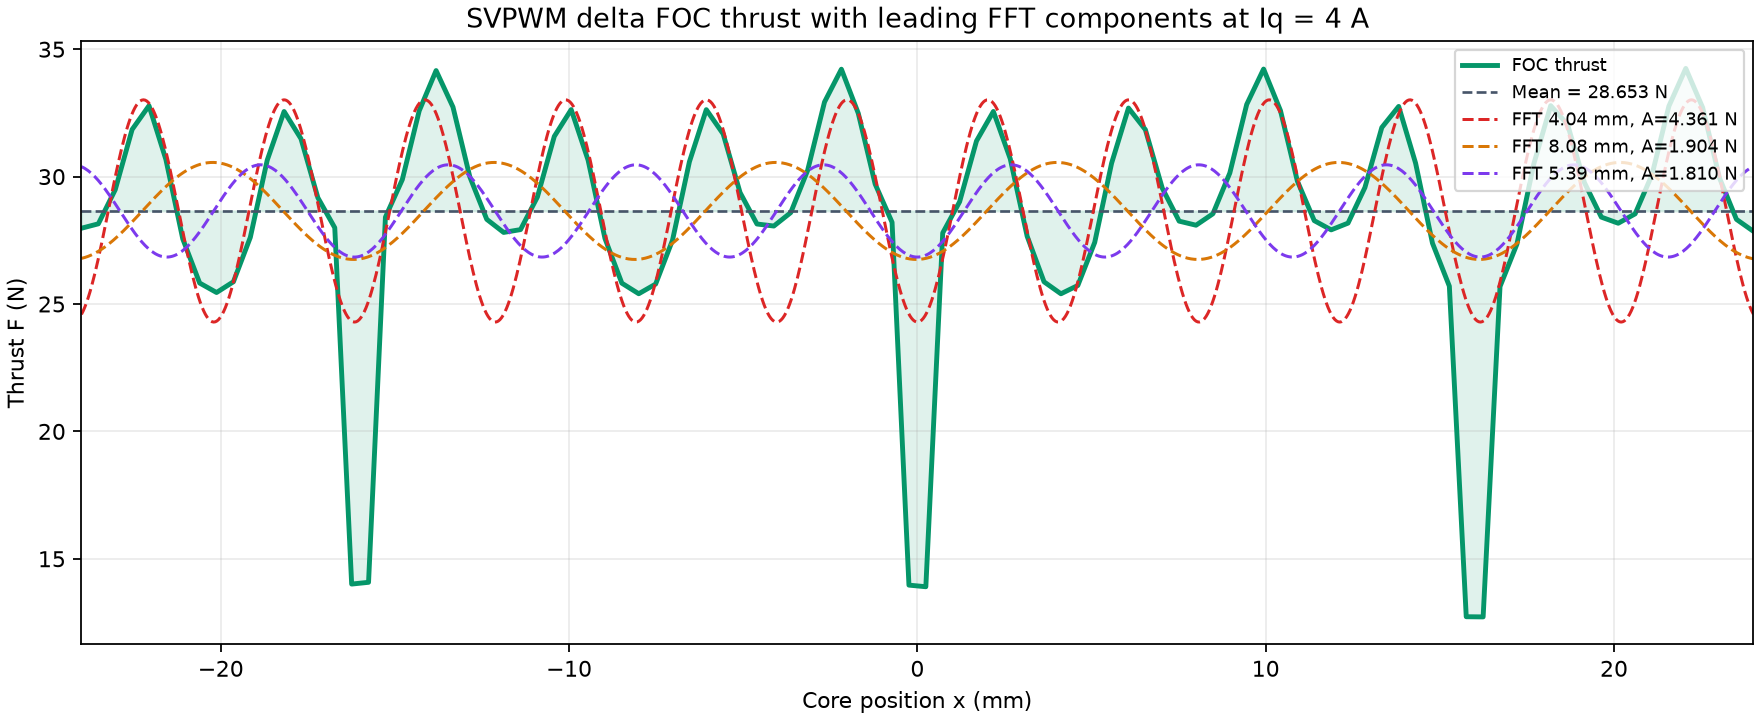
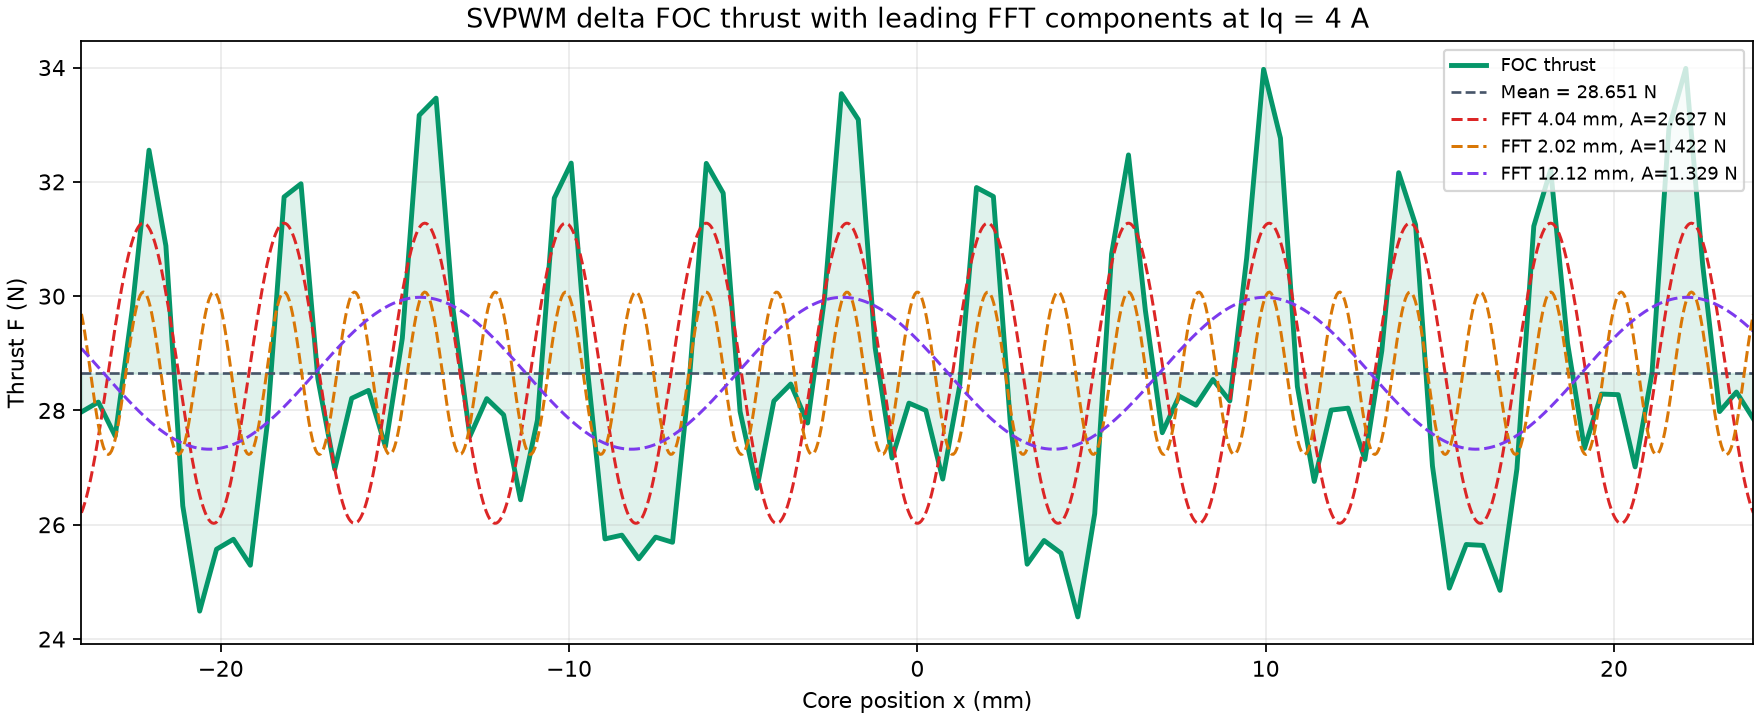
fix: smooth moving magnet source boundaries

Changed region(s): [[0.0, 0.0611, 1.0, 0.8556], [0.75, 0.7028, 0.7812, 0.7333]]

diff --git a/halbach_field_n52.html b/halbach_field_n52.html
@@ -49,7 +49,7 @@
     <div class="note"><span class="key">斜极取舍</span>：14.04° 的磁场基波系数约 0.955，适合推力优先；26.565° 的系数约 0.827，适合齿槽力优先。实际残余力由 B-H 曲线、端部磁通、加工与装配误差决定。</div>
     <div class="note">色图由二维磁矢势方程求解：DXF 闭合轮廓在网格内赋予 35W300 的线性 μr≈4000，气隙为 1 mm，磁铁厚度为 3 mm。铁芯绕其中心旋转 180°，齿顶位于磁铁顶面上方 1 mm。求解域随五组磁铁阵列扩展，四周采用远离模型的固定磁矢势边界；铁芯位于画面中心，左右侧磁铁单元数相同，所有磁铁块均绘制轮廓。</div>
     <div class="note">每种磁铁排布均提供 200 帧动画，展示铁芯按 -24 mm、+24 mm、-24 mm 的顺序往复运动。曲线使用 100 个单程位置点计算。白色箭头表示计算得到的齿槽力方向，箭头长度随力值绝对值变化，箭头上方显示当前位置与瞬时齿槽力。动画下方曲线给出齿槽力 F 随位置 x 的变化。</div>
-    <div class="note"><span class="key">SVPWM Δ 接 FOC 推力模型</span>：三齿三相集中绕组，每相 266 匝、0.4 mm 线径、有效叠厚 16 mm。Iq=4 A 定义为 Δ 每个绕组支路的基波 q 轴峰值电流，对应线电流峰值约 6.93 A。SVPWM 注入的是零序电压以扩展调制范围；支路电流采用平衡基波，避免将三次谐波环流计入有效推力。推力由各齿气隙磁链的位置导数与瞬时相电流相乘计算，未叠加齿槽力。</div>
+    <div class="note"><span class="key">SVPWM Δ 接 FOC 推力模型</span>：三齿三相集中绕组，每相 266 匝、0.4 mm 线径、有效叠厚 16 mm。Iq=4 A 定义为 Δ 每个绕组支路的基波 q 轴峰值电流，对应线电流峰值约 6.93 A。SVPWM 注入的是零序电压以扩展调制范围；支路电流采用平衡基波，避免将三次谐波环流计入有效推力。磁铁边界在每个 0.5 mm 网格单元内使用 8 点体积分数平均，避免边界跨单元跳变被磁链微分放大。推力由各齿气隙磁链的位置导数与瞬时相电流相乘计算，未叠加齿槽力。</div>
   </div>
 </main>
 <script type="application/json">
@@ -196,7 +196,7 @@ const forceCurve = document.querySelector('#forceCurve');
   const thrustCurve = document.querySelector('#thrustCurve');
 const mapLabel = document.querySelector('#mapLabel');
 const motionStatus = document.querySelector('#motionStatus');
-const animationRevision = 'roundtrip-24-v1-svpwm-delta-v1';
+const animationRevision = 'roundtrip-24-v1-svpwm-delta-subcell-v1';
 for (const button of document.querySelectorAll('.mapButton')) {
   button.onclick = () => {
     const map = fieldMaps[button.dataset.map];

diff --git a/cogging_fdm.py b/cogging_fdm.py
@@ -16,6 +16,7 @@ TOOTH = 5.0
 PERIOD = 48.0
 GAP = 1.0
 H = 0.5
+MAGNET_SUBCELL_SAMPLES = 8
 COIL_TURNS = 266
 ACTIVE_STACK_M = 16e-3
 IQ_PEAK_A = 4.0
@@ -136,7 +137,10 @@ def magnet_br(position, skew_offset, array):
     br_y = np.zeros((Z_CELLS, Y_CELLS))
     br_z = np.zeros((Z_CELLS, Y_CELLS))
     in_thickness = (Z >= 0.0) & (Z < 3.0)
-    phase = Y - position - skew_offset
+    # Average magnetization over each finite-volume cell. A binary assignment at
+    # the cell centre makes a moving magnet edge jump by one full 0.5 mm column.
+    subcell_y = Y[:, None] + H * (np.arange(MAGNET_SUBCELL_SAMPLES) + 0.5) / MAGNET_SUBCELL_SAMPLES - H / 2
+    phase = subcell_y - position - skew_offset
     if not SINGLE_CORE:
         phase = np.mod(phase, 24.0)
         active_unit = np.ones_like(phase, dtype=bool)
@@ -147,12 +151,12 @@ def magnet_br(position, skew_offset, array):
     if array in HALBACH_WIDTHS and not NO_SIDE:
         # One 24 mm pole pair: +Z, -Y, -Z, +Y. The normal/tangential widths sum to 12 mm.
         main_width = HALBACH_WIDTHS[array]
-        br_z_line = np.where(active_unit & (phase < main_width), BR, np.where(active_unit & (phase >= 12.0) & (phase < 12.0 + main_width), -BR, 0.0))
-        br_y_line = np.where(active_unit & (phase >= main_width) & (phase < 12.0), -BR, np.where(active_unit & (phase >= 12.0 + main_width), BR, 0.0))
+        br_z_line = np.where(active_unit & (phase < main_width), BR, np.where(active_unit & (phase >= 12.0) & (phase < 12.0 + main_width), -BR, 0.0)).mean(axis=1)
+        br_y_line = np.where(active_unit & (phase >= main_width) & (phase < 12.0), -BR, np.where(active_unit & (phase >= 12.0 + main_width), BR, 0.0)).mean(axis=1)
     else:
         main_width = HALBACH_WIDTHS.get(array, 10.0)
-        br_z_line = np.where(active_unit & (phase < main_width), BR, np.where(active_unit & (phase >= 12.0) & (phase < 12.0 + main_width), -BR, 0.0))
-        br_y_line = np.zeros_like(phase)
+        br_z_line = np.where(active_unit & (phase < main_width), BR, np.where(active_unit & (phase >= 12.0) & (phase < 12.0 + main_width), -BR, 0.0)).mean(axis=1)
+        br_y_line = np.zeros_like(br_z_line)
     br_z[in_thickness, :] = br_z_line
     br_y[in_thickness, :] = br_y_line
     return br_y, br_z

diff --git a/.monkeycode/specs/foc-thrust-curve/design.md b/.monkeycode/specs/foc-thrust-curve/design.md
@@ -4,6 +4,6 @@
 
 三个齿中心为 `2.5 mm`、`18.5 mm`、`34.5 mm`。求解器从每相磁链的基波相位识别 d 轴，电流保持在对应 q 轴，并使用平衡基波支路电流 `Iq=4 A` 峰值。SVPWM 的零序电压注入不加入绕组支路电流；Δ 接法中的三次谐波会形成环流，无法形成有效 q 轴推力。位置差分获得磁链梯度，瞬时相电流与梯度的内积得到推力。
 
-该模型保留现有二维线性磁路、默认相序和有限阵列端部效应，适合相同结构间的推力与推力纹波比较。绕组实际相序、绕向、端部绕组与 B-H 非线性会影响实机绝对值。
+磁铁源在每个 `0.5 mm` 网格单元内使用 8 点体积分数平均，磁铁边界随位置连续平移，减少二值网格赋值在磁链微分后形成的推力尖峰。该模型保留二维线性磁路、默认相序和有限阵列端部效应，适合相同结构间的推力与推力纹波比较。绕组实际相序、绕向、端部绕组与 B-H 非线性会影响实机绝对值。
 
 推力曲线去除平均值后执行实数 FFT，选择幅值最高的三个非直流分量。分量通过解析余弦函数重建为 1000 个显示点，并以总推力均值为基线叠加显示，图例包含对应空间周期和幅值。
